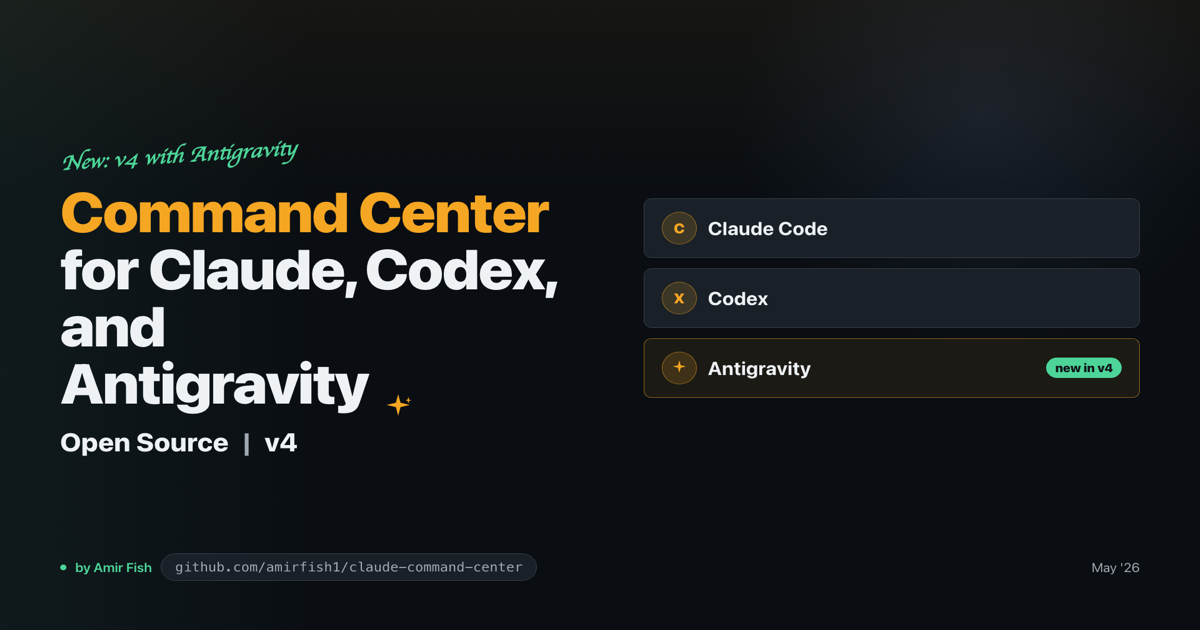
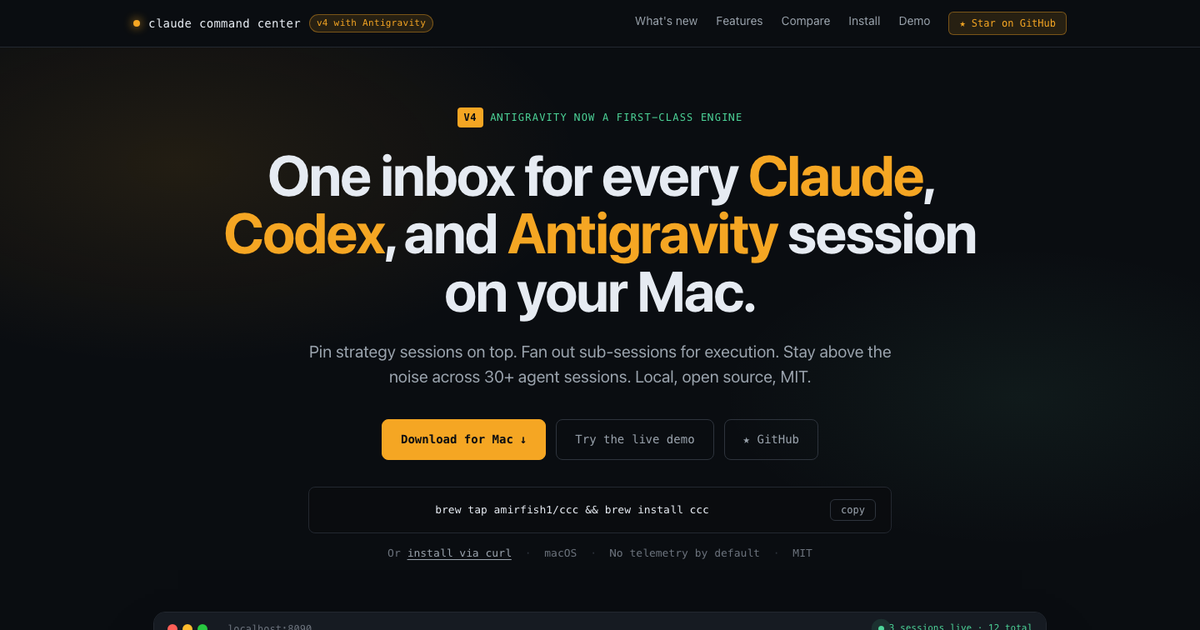
feat(site): use homepage-hero capture as social preview image
Replace the static marketing card with a 1200x630 capture of the live
homepage hero (nav + headline + CTAs + brew box). Bump og:image and
twitter:image to ?v=4 to bust WhatsApp/Meta preview cache.

diff --git a/docs/index.html b/docs/index.html
@@ -11,9 +11,9 @@
 <meta property="og:description" content="One inbox for every Claude, Codex, and Antigravity session on your machine. Pin strategy, fan out execution.">
 <meta property="og:type" content="website">
 <meta property="og:url" content="https://ccc.amirfish.ai">
-<meta property="og:image" content="https://ccc.amirfish.ai/images/social-preview.png">
+<meta property="og:image" content="https://ccc.amirfish.ai/images/social-preview.png?v=4">
 <meta name="twitter:card" content="summary_large_image">
-<meta name="twitter:image" content="https://ccc.amirfish.ai/images/social-preview.png">
+<meta name="twitter:image" content="https://ccc.amirfish.ai/images/social-preview.png?v=4">
 
 <style>
   :root {
@@ -659,7 +659,7 @@ agy --conversation &lt;sid&gt;</pre>
             </tr>
             <tr>
               <td>Polished native app (DMG)</td>
-              <td class="partial">v4.1</td>
+              <td class="yes">✓ signed + Sparkle</td>
               <td class="no">CLI</td>
               <td class="yes">✓</td>
               <td class="yes">✓</td>